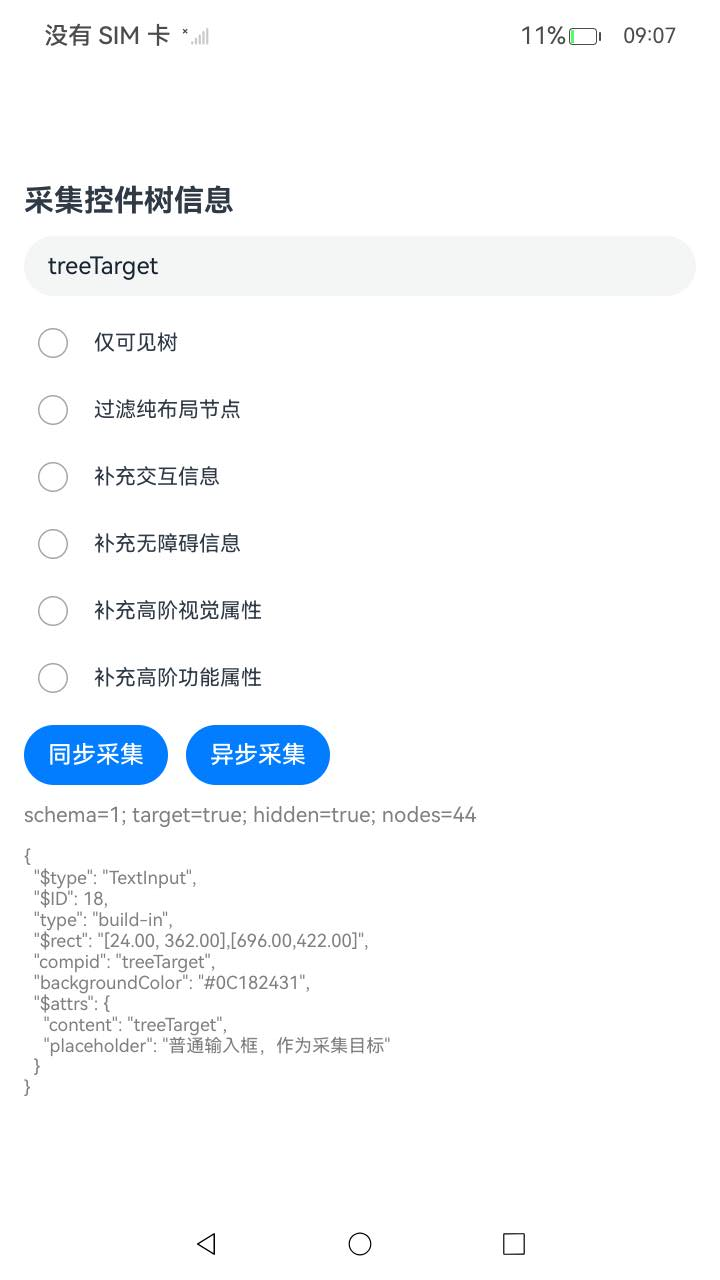
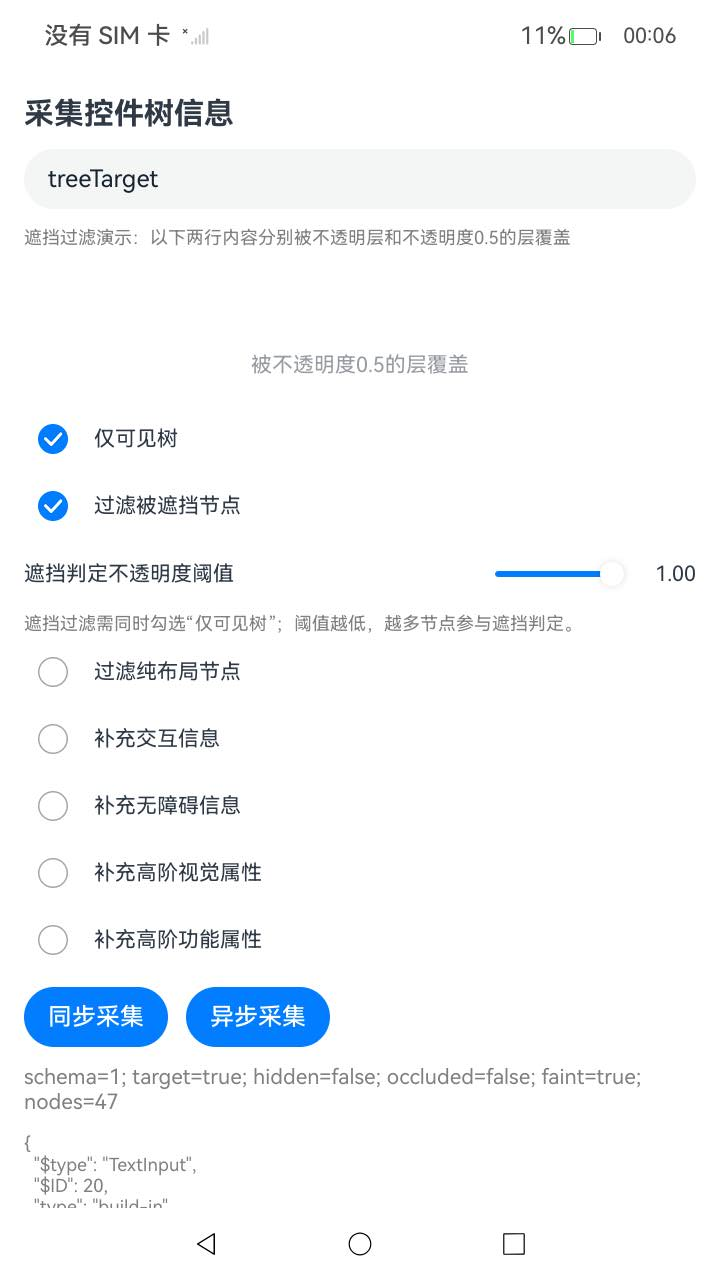
docs: add occlusion filtering to UI collection sample
Add node occlusion filtering to the UiInfoCollectionAndInjection sample:
expose filterOccluded and occlusionThreshold in TreeOptions, apply
OH_ArkUI_NativeModule_UIAgentTreeRequestSetFilterOccludedNodes and
OH_ArkUI_NativeModule_UIAgentTreeRequestSetOcclusionOpacityThreshold for
visible-tree requests only, add the occlusion option and opacity threshold
slider with two covered demo nodes, update resources and README, add the
TreeOcclusion_001 UI test case and the test archive, and refresh the tree
collection screenshot.

AI[100%] Human Fixed[0%] Human[0%] AI Adopted[100%]

diff --git a/code/DocsSample/ArkUISample/UiInfoCollectionAndInjection/entry/src/main/cpp/types/libentry/Index.d.ts b/code/DocsSample/ArkUISample/UiInfoCollectionAndInjection/entry/src/main/cpp/types/libentry/Index.d.ts
@@ -18,6 +18,10 @@ import type { image } from '@kit.ImageKit';
 export interface TreeOptions {
   visibleOnly: boolean;
   filterLayout: boolean;
+  // 遮挡过滤只支持可见树请求，全量树启用会返回106102。
+  filterOccluded: boolean;
+  // 遮挡判定不透明度阈值，取值范围[0.0, 1.0]，默认1.0。
+  occlusionThreshold: number;
   interaction: boolean;
   accessibility: boolean;
   visual: boolean;

diff --git a/code/DocsSample/ArkUISample/UiInfoCollectionAndInjection/entry/src/main/cpp/napi_init.cpp b/code/DocsSample/ArkUISample/UiInfoCollectionAndInjection/entry/src/main/cpp/napi_init.cpp
@@ -102,6 +102,25 @@ bool ReadBool(napi_env env, napi_value options, const char* name, bool& value)
     return true;
 }
 
+// 遮挡判定不透明度阈值：C接口要求为[0.0, 1.0]的浮点数，这里在桥接层先校验。
+bool ReadThreshold(napi_env env, napi_value options, const char* name, double& value)
+{
+    napi_value item = nullptr;
+    napi_valuetype type = napi_undefined;
+    if (napi_get_named_property(env, options, name, &item) != napi_ok ||
+        napi_typeof(env, item, &type) != napi_ok || type != napi_number ||
+        napi_get_value_double(env, item, &value) != napi_ok) {
+        napi_throw_type_error(env, nullptr, "Expected a numeric collection option");
+        return false;
+    }
+    // NaN不满足下面的任一比较，同样会被拒绝。
+    if (!(value >= 0.0 && value <= 1.0)) {
+        napi_throw_range_error(env, nullptr, "Occlusion opacity threshold must be in [0.0, 1.0]");
+        return false;
+    }
+    return true;
+}
+
 bool ReadNodeId(napi_env env, napi_value value, int32_t& nodeId)
 {
     napi_valuetype type = napi_undefined;
@@ -209,13 +228,42 @@ void RejectSubmission(uintptr_t token, ArkUI_ErrorCode code)
 }
 
 // [Start ui_tree_create_request]
+// 遮挡过滤及其判定阈值只支持可见树请求：对全量树调用会返回
+// ARKUI_ERROR_CODE_ATTRIBUTE_OR_EVENT_NOT_SUPPORTED，因此两项配置都放在可见树分支内。
+bool ApplyOcclusion(napi_env env, OH_ArkUI_NativeModule_UIAgentTreeRequest* request,
+    bool visible, bool occluded, double threshold)
+{
+    if (!visible) {
+        if (occluded) {
+            napi_throw_error(env, nullptr, "Occlusion filtering requires a visible-tree request");
+            return false;
+        }
+        return true;
+    }
+    // 阈值在遮挡过滤关闭时不参与判定，但仍随请求一起下发。
+    auto code = OH_ArkUI_NativeModule_UIAgentTreeRequestSetFilterOccludedNodes(request, occluded);
+    if (code == ARKUI_ERROR_CODE_NO_ERROR) {
+        code = OH_ArkUI_NativeModule_UIAgentTreeRequestSetOcclusionOpacityThreshold(request,
+            static_cast<float>(threshold));
+    }
+    if (code != ARKUI_ERROR_CODE_NO_ERROR) {
+        Throw(env, "tree occlusion option", code);
+        return false;
+    }
+    return true;
+}
+
 Request CreateRequest(napi_env env, napi_value options)
 {
     Request request(nullptr, OH_ArkUI_NativeModule_UIAgentTreeRequestDestroy);
     bool visible = false;
+    bool occluded = false;
+    double threshold = 1.0;
     std::array<bool, TREE_OPTION_COUNT> flags {};
     const char* names[] = {"filterLayout", "interaction", "accessibility", "visual", "functional"};
-    if (!ReadBool(env, options, "visibleOnly", visible)) {
+    if (!ReadBool(env, options, "visibleOnly", visible) ||
+        !ReadBool(env, options, "filterOccluded", occluded) ||
+        !ReadThreshold(env, options, "occlusionThreshold", threshold)) {
         return request;
     }
     for (size_t index = 0; index < flags.size(); ++index) {
@@ -244,8 +292,11 @@ Request CreateRequest(napi_env env, napi_value options)
         if (code != ARKUI_ERROR_CODE_NO_ERROR) {
             Throw(env, "tree option", code);
             request.reset();
-            break;
+            return request;
         }
+    }
+    if (!ApplyOcclusion(env, request.get(), visible, occluded, threshold)) {
+        request.reset();
     }
     return request;
 }

diff --git a/code/DocsSample/ArkUISample/UiInfoCollectionAndInjection/README_zh.md b/code/DocsSample/ArkUISample/UiInfoCollectionAndInjection/README_zh.md
@@ -13,7 +13,7 @@
 ### 使用说明
 
 1. 在主界面，点击"采集控件树信息"进入控件树采集页面；
-2. 在采集页面，按需勾选六个采集选项，点击"同步采集"或"异步采集"，页面显示解析统计与目标节点JSON；
+2. 在采集页面，按需勾选七个采集选项并调整遮挡判定不透明度阈值，点击"同步采集"或"异步采集"，页面显示解析统计与目标节点JSON；
 3. 在主界面，点击"注入交互与高阶指令"进入指令注入页面；
 4. 在指令注入页面，选择目标组件类型（输入框/Swiper/Tabs），点击指令预设按钮载入JSON，可编辑后点击"提交指令"，页面显示执行结果码与目标组件当前状态。
 5. 在主界面，点击"节点图片采集"进入节点图片采集页面，页面内有Image节点，容器节点和Text节点三个可采集目标，另有一个标记为"待移除"的节点用于演示批次中包含已移除节点；
@@ -52,7 +52,7 @@ entry/src/main/
 
 ### 具体实现
 
-* 控件树采集的请求创建，选项配置，同步采集，异步采集与回调处理封装在[napi_init.cpp](entry/src/main/cpp/napi_init.cpp)中的CreateRequest，CollectTree，CollectTreeAsync与OnTree，调用OH_ArkUI_NativeModule_UIAgentTreeRequestCreate等公开接口，请求对象通过配套销毁函数管理；
+* 控件树采集的请求创建，选项配置，同步采集，异步采集与回调处理封装在[napi_init.cpp](entry/src/main/cpp/napi_init.cpp)中的CreateRequest，CollectTree，CollectTreeAsync与OnTree，调用OH_ArkUI_NativeModule_UIAgentTreeRequestCreate，OH_ArkUI_NativeModule_UIAgentTreeRequestSetFilterOccludedNodes与OH_ArkUI_NativeModule_UIAgentTreeRequestSetOcclusionOpacityThreshold等公开接口，遮挡过滤与遮挡判定不透明度阈值只在可见树请求上设置，请求对象通过配套销毁函数管理；
 * 节点图片采集的请求提交与结果消费封装在[napi_init.cpp](entry/src/main/cpp/napi_init.cpp)中的CollectImages与OnImages，调用OH_ArkUI_NativeModule_GetImagesByNodeIdAsync提交异步请求，在回调中按节点ID逐项调用OH_ArkUI_NativeModule_ImageCollectionTakeItemByNodeId取出结果，用OH_PixelmapNative_ConvertPixelmapNativeToNapi把PixelMap转成ArkTS对象，最后调用OH_ArkUI_NativeModule_ImageCollectionDestroy释放集合；同步受理结果与回调整体结果分别通过submitError和overallError返回，单项结果通过nodeId，itemError和尺寸返回；
 * 节点图片采集所需的ArkUI Context通过页面内的NodeContent获得：页面在aboutToAppear中把NodeContent交给native侧，native创建一个空节点挂载到该NodeContent上，再调用OH_ArkUI_GetContextByNode从该节点取Context（ArkTS声明的节点取不到可用于采图的Context），实现见[napi_init.cpp](entry/src/main/cpp/napi_init.cpp)中的AttachImageAnchor与GetImageContext；
 * 节点图片采集页面的目标节点声明与调用流程见[ImagePage.ets](entry/src/main/ets/pages/ImagePage.ets)中的capture方法，节点ID通过UIContext的getFrameNodeById与getUniqueId取得，页面按请求顺序渲染每个结果项；
@@ -75,7 +75,9 @@ entry/src/main/
 3. 本示例的节点图片采集功能使用从26.1.0版本起提供的OH_ArkUI_NativeModule_GetImagesByNodeIdAsync，OH_ArkUI_NativeModule_ImageCollectionTakeItemByNodeId与OH_ArkUI_NativeModule_ImageCollectionDestroy，需使用声明并导出这三个符号的SDK与libace_ndk.z.so，运行设备的实现需与SDK匹配；
 4. 本示例需要使用DevEco Studio 26.0.0.851及以上版本编译运行；
 5. 控件树采集与指令注入必须在目标UI实例的UI线程调用，节点图片采集可以从任意线程提交，结果回调在目标UI实例的UI线程执行；同一UI实例上一次采图请求的回调未返回前，再次提交会被拒绝，具体约束见对应开发指南；
-6. 节点图片采集返回的PixelMap由调用方释放，本示例在转换给ArkTS后即释放native对象，页面退出前后不持有集合。
+6. 节点图片采集返回的PixelMap由调用方释放，本示例在转换给ArkTS后即释放native对象，页面退出前后不持有集合；
+7. 遮挡过滤只对可见树请求有效：对全量树请求启用遮挡过滤会返回106102（ATTRIBUTE_OR_EVENT_NOT_SUPPORTED），遮挡判定不透明度阈值超出[0.0, 1.0]会返回106405（PARAM_OUT_OF_RANGE），阈值默认1.0；只有最终不透明度不低于阈值的节点才作为遮挡物参与判定，因此阈值越低被剔除的节点越多，且开启遮挡过滤会带来额外的计算开销；
+8. 遮挡判定的前提：被覆盖的节点需要把自身绘制裁剪到边界内（示例对其使用clip(true)），遮挡层使用带不透明背景色的普通节点（示例为白色Column），否则该节点不会被判定为完全遮挡。
 
 ### 下载
 

diff --git a/code/DocsSample/ArkUISample/UiInfoCollectionAndInjection/ohosTest.md b/code/DocsSample/ArkUISample/UiInfoCollectionAndInjection/ohosTest.md
@@ -5,10 +5,12 @@
 |测试功能|预置条件|输入|预期输出|是否自动|测试结果|
 |--------------------------------|--------------------------------|--------------------------------|--------------------------------|--------------------------------|--------------------------------|
 |拉起应用|设备正常运行，已安装应用|无|成功拉起应用，进入主页|是|Pass|
-|主页导航-采集控件树信息|位于主页|点击"采集控件树信息"按钮|进入TreePage，显示六个采集选项和同步/异步按钮|是|Pass|
+|主页导航-采集控件树信息|位于主页|点击"采集控件树信息"按钮|进入TreePage，显示七个采集选项，遮挡判定不透明度阈值滑块和同步/异步按钮|是|Pass|
 |同步采集|位于TreePage，选项默认关闭|点击"同步采集"按钮|状态行显示schema=1及目标/隐藏节点/节点数统计|是|Pass|
 |异步采集|位于TreePage，选项默认关闭|点击"异步采集"按钮|回调返回后状态行显示schema=1统计信息|是|Pass|
 |组合选项采集|位于TreePage|勾选"仅可见树"和"过滤纯布局节点"，点击"同步采集"|状态行显示schema=1；隐藏节点在可见树下不出现在结果中|是|Pass|
+|遮挡过滤|位于TreePage|勾选"仅可见树"和"过滤被遮挡节点"，阈值保持1.00后点击"同步采集"|状态行显示occluded=false，faint=true，节点数少于仅可见树|是|Pass|
+|遮挡判定阈值|位于TreePage，已勾选"仅可见树"和"过滤被遮挡节点"|把阈值调到0.30后点击"同步采集"|状态行faint=false，节点数再减少|否|Pass|
 |交互/无障碍/高阶属性开关|位于TreePage|分别勾选其余四个开关后采集|结果JSON中出现对应字段（clickable/accessibilityContent/advanced组）|否|Pass|
 |目标节点JSON查看|位于TreePage，采集成功|采集后查看目标节点JSON|显示treeTarget输入框节点的JSON片段，隐藏节点按树类型出现或省略|否|Pass|
 |主页导航-注入交互与高阶指令|位于主页|点击"注入交互与高阶指令"按钮|进入CommandPage，显示目标选择，指令预设和提交按钮|是|Pass|
